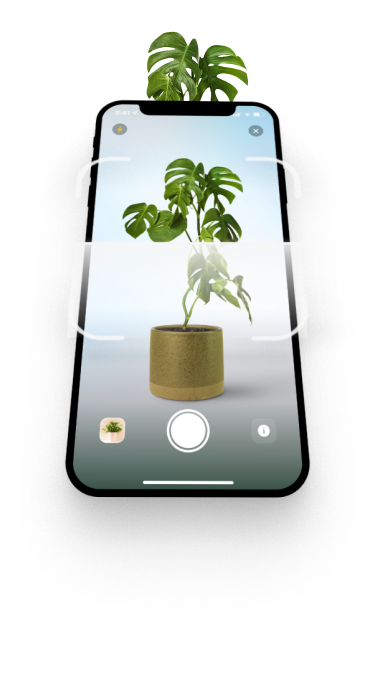
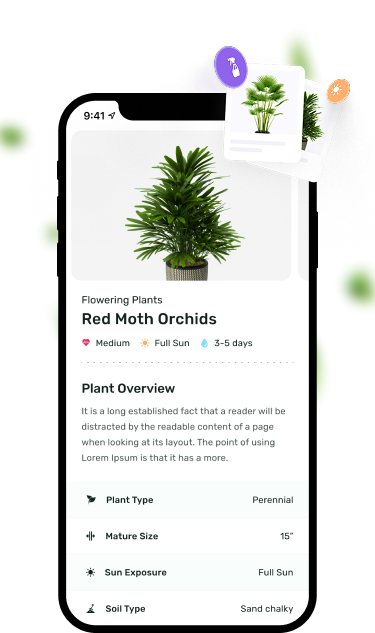
PA-0: Onboarding ui update

diff --git a/src/screens/Onboarding/Onboarding.tsx b/src/screens/Onboarding/Onboarding.tsx
@@ -6,10 +6,18 @@ import {
   NativeScrollEvent,
   NativeSyntheticEvent,
   StatusBar,
+  StyleSheet,
   useWindowDimensions,
 } from 'react-native';
+import Animated, {
+  interpolateColor,
+  useAnimatedScrollHandler,
+  useAnimatedStyle,
+  useSharedValue,
+} from 'react-native-reanimated';
 import { useSafeAreaInsets } from 'react-native-safe-area-context';
 import { useDispatch } from 'react-redux';
+import { useTheme } from 'styled-components/native';
 
 import { OnboardingPageOne } from './OnboardingPageOne';
 import { OnboardingPageTwo } from './OnboardingPageTwo';
@@ -19,7 +27,6 @@ import { CarouselPage, PaginationContainer } from './styles';
 
 import { Screen } from '@/components';
 import { completeOnboarding } from '@/store/onboardingSlice';
-import { colors, useTheme } from '@/theme';
 
 const pages = [OnboardingPageOne, OnboardingPageTwo, PaywallPage];
 
@@ -28,7 +35,8 @@ const OnboardingContainer = () => {
   const flatListRef = useRef<FlatList<(typeof pages)[number]>>(null);
 
   const { width } = useWindowDimensions();
-  const { normalizeSize } = useTheme();
+  const { normalizeSize, colors } = useTheme();
+  const scrollX = useSharedValue(0);
 
   const insets = useSafeAreaInsets();
 
@@ -49,6 +57,20 @@ const OnboardingContainer = () => {
     setActiveIndex(index);
   };
 
+  const handleScroll = useAnimatedScrollHandler({
+    onScroll: (event) => {
+      scrollX.value = event.contentOffset.x;
+    },
+  });
+
+  const footerBackgroundStyle = useAnimatedStyle(() => ({
+    backgroundColor: interpolateColor(
+      scrollX.value,
+      [0, width, width * (pages.length - 1)],
+      [colors.white, colors.white, colors.primaryBackground]
+    ),
+  }));
+
   useEffect(() => {
     flatListRef.current?.scrollToOffset({ animated: false, offset: activeIndex * width });
   }, [activeIndex, width]);
@@ -63,7 +85,18 @@ const OnboardingContainer = () => {
     <>
       <StatusBar barStyle={isLastPage ? 'light-content' : 'dark-content'} />
       <Screen
-        buttonContainerStyle={{ paddingBottom: insets.bottom + normalizeSize(isLastPage ? 0 : 20) }}
+        buttonContainerBackground={
+          <Animated.View
+            pointerEvents="none"
+            style={[StyleSheet.absoluteFill, footerBackgroundStyle]}
+          />
+        }
+        buttonContainerStyle={{
+          paddingBottom: insets.bottom + normalizeSize(isLastPage ? 0 : 20),
+        }}
+        contentContainerStyle={{
+          paddingBottom: 0,
+        }}
         footerComponent={
           !isLastPage ? (
             <PaginationContainer>
@@ -84,7 +117,7 @@ const OnboardingContainer = () => {
           backgroundColor: colors.primaryBackground,
         }}
       >
-        <FlatList
+        <Animated.FlatList
           horizontal
           nestedScrollEnabled
           pagingEnabled
@@ -92,8 +125,10 @@ const OnboardingContainer = () => {
           getItemLayout={(_, index) => ({ index, length: width, offset: width * index })}
           keyExtractor={(_, index) => index.toString()}
           onMomentumScrollEnd={handleMomentumScrollEnd}
+          onScroll={handleScroll}
           ref={flatListRef}
           renderItem={renderItem}
+          scrollEventThrottle={16}
           showsHorizontalScrollIndicator={false}
         />
       </Screen>

diff --git a/src/components/screen/Screen.tsx b/src/components/screen/Screen.tsx
@@ -29,6 +29,8 @@ interface ScreenProps extends Omit<ViewProps, 'children'> {
   scrollable?: boolean;
   loadingIndicatorColor?: string;
   buttonContainerStyle?: ViewProps['style'];
+  buttonContainerBackground?: React.ReactNode;
+  contentContainerStyle?: ViewProps['style'];
 }
 
 const Screen = React.forwardRef<any, ScreenProps>(
@@ -41,6 +43,8 @@ const Screen = React.forwardRef<any, ScreenProps>(
       scrollable = true,
       loadingIndicatorColor,
       buttonContainerStyle,
+      buttonContainerBackground,
+      contentContainerStyle,
       ...props
     },
     ref
@@ -60,10 +64,13 @@ const Screen = React.forwardRef<any, ScreenProps>(
 
     const content = scrollable ? (
       <ScreenScrollView
-        contentContainerStyle={{
-          flexGrow: 1,
-          paddingBottom: primaryButton ? insets.bottom + 55 : insets.bottom,
-        }}
+        contentContainerStyle={[
+          {
+            flexGrow: 1,
+            paddingBottom: primaryButton ? insets.bottom + 55 : insets.bottom,
+          },
+          contentContainerStyle,
+        ]}
         showsVerticalScrollIndicator={false}
       >
         {children}
@@ -80,6 +87,7 @@ const Screen = React.forwardRef<any, ScreenProps>(
 
         {(primaryButton || footerComponent) && (
           <ButtonContainer insetBottom={insets.bottom} style={buttonContainerStyle}>
+            {buttonContainerBackground}
             {primaryButton && (
               <Button
                 backgroundColor={primaryButton.backgroundColor}

diff --git a/src/components/components.test.tsx b/src/components/components.test.tsx
@@ -8,6 +8,7 @@ import Button from './button/Button';
 import { Image } from './image/Image';
 import { PremiumCard } from './premium-card/PremiumCard';
 import { Screen } from './screen/Screen';
+import { ScreenContent } from './screen/styles';
 import { SearchInput } from './search-input/SearchInput';
 import { Text } from './text/Text';
 
@@ -87,6 +88,17 @@ describe('components', () => {
     );
 
     expect(tree.root.findByType(ActivityIndicator)).toBeTruthy();
+  });
+
+  it('forwards content styles to non-scrollable screens', () => {
+    const contentContainerStyle = { paddingBottom: 0 };
+    const tree = render(
+      <Screen contentContainerStyle={contentContainerStyle} scrollable={false}>
+        <Text>Plant list</Text>
+      </Screen>
+    );
+
+    expect(tree.root.findByType(ScreenContent).props.style).toEqual(contentContainerStyle);
   });
 
   it('renders a primary screen button and calls its handler', () => {

diff --git a/src/screens/screens.test.tsx b/src/screens/screens.test.tsx
@@ -33,6 +33,20 @@ jest.mock('react-redux', () => ({
   useDispatch: () => mockDispatch,
 }));
 
+jest.mock('react-native-reanimated', () => {
+  const { FlatList, View } = require('react-native');
+
+  return {
+    __esModule: true,
+    default: { FlatList, View },
+    interpolateColor: () => '#ffffff',
+    useAnimatedScrollHandler: (handlers: { onScroll: (event: unknown) => void }) =>
+      handlers.onScroll,
+    useAnimatedStyle: (updater: () => object) => updater(),
+    useSharedValue: (value: number) => ({ value }),
+  };
+});
+
 jest.mock('@/assets/svgs/icons', () => {
   const { View } = require('react-native');
 

diff --git a/src/screens/Onboarding/OnboardingPageTwo/OnboardingPageTwo.tsx b/src/screens/Onboarding/OnboardingPageTwo/OnboardingPageTwo.tsx
@@ -6,7 +6,7 @@ import { Text } from '@/components';
 const OnboardingPageTwo = () => {
   return (
     <OnboardingIllustrationPage
-      image={images.onboardingOne}
+      image={images.onboardingTwo}
       title={
         <>
           Get plant <Text variant="headingExtraBold">care guides</Text>
